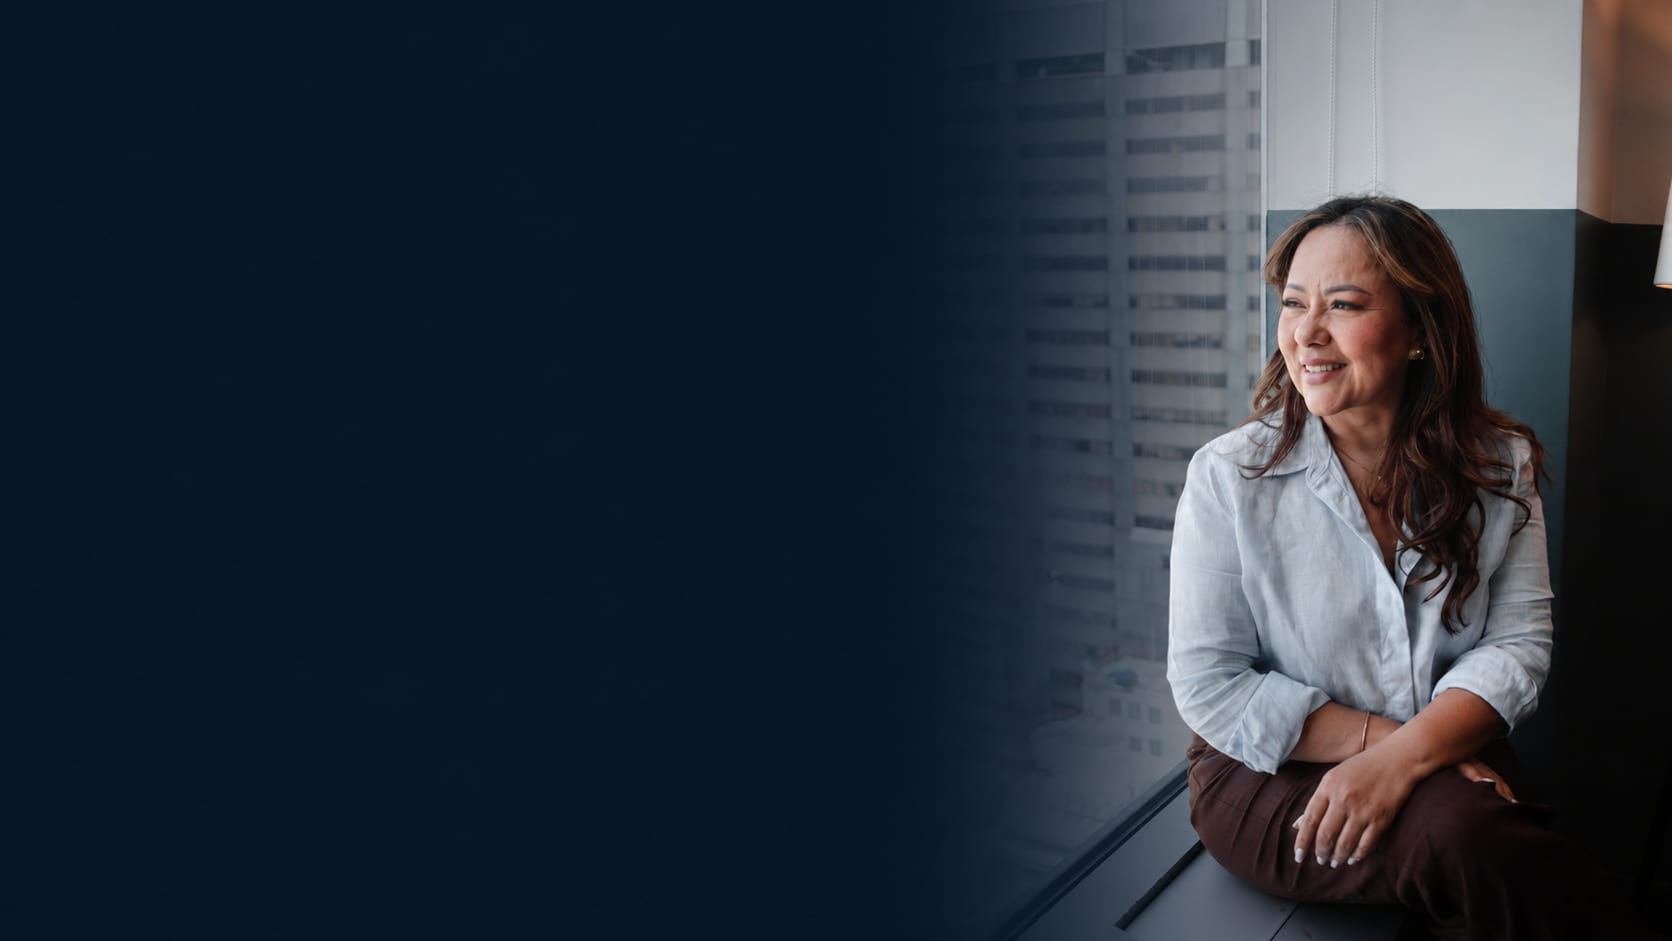
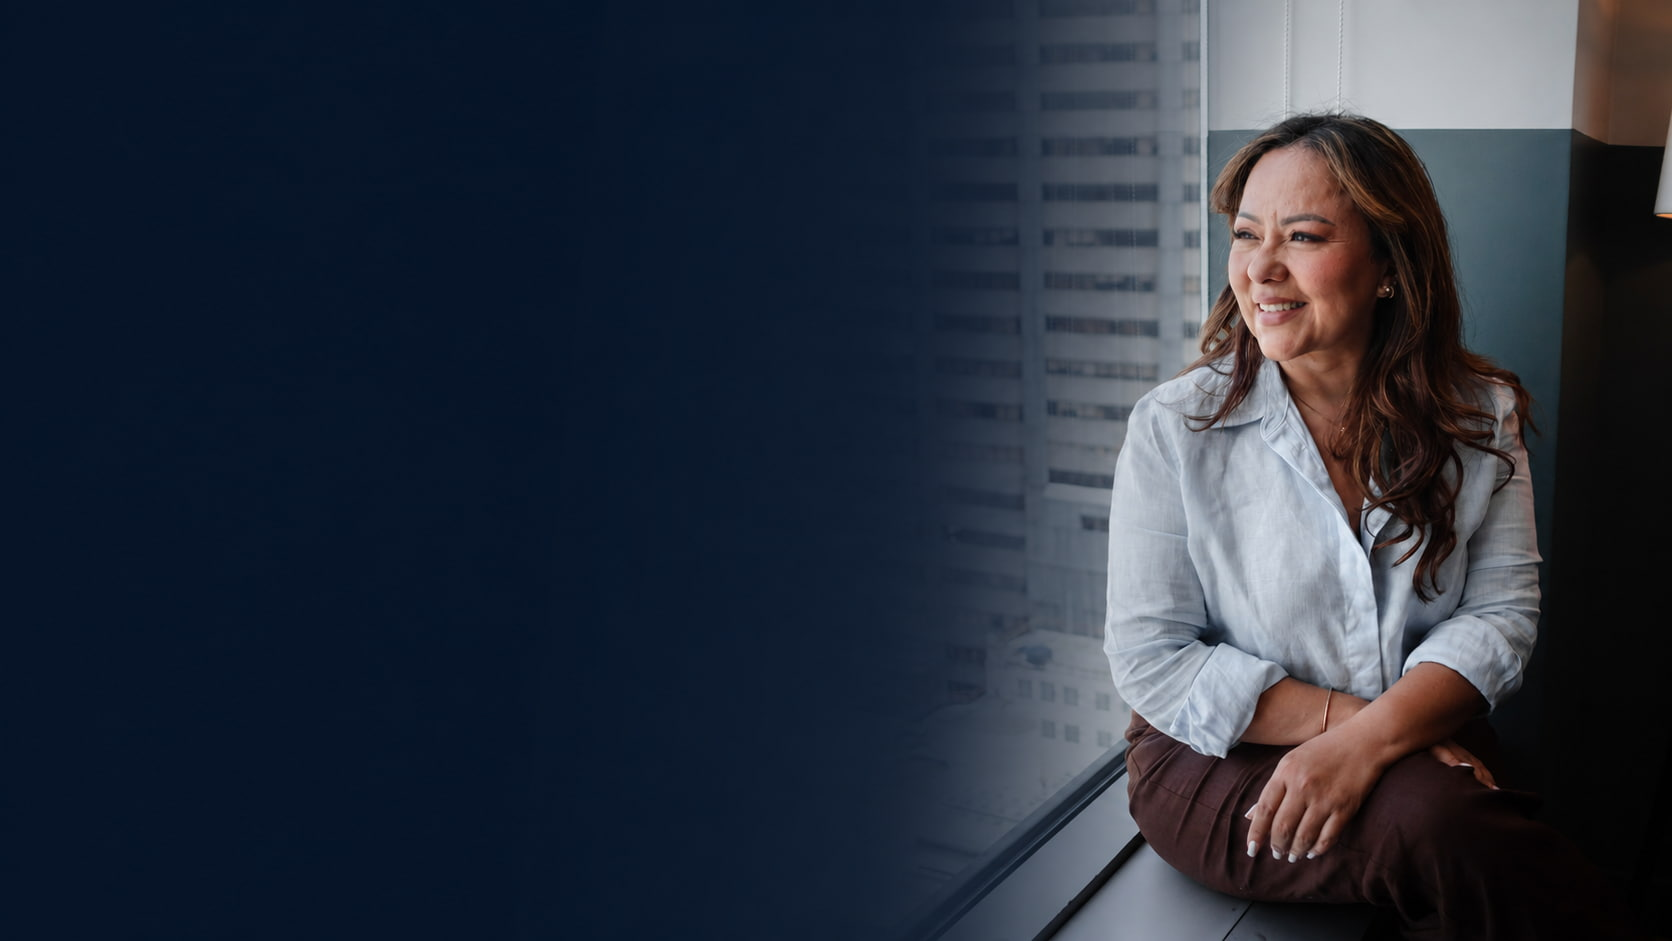
alterações de feedback e foto hero no mobile

Changed region(s): [[0.5598, 0.0, 1.0, 1.0]]

diff --git a/style.css b/style.css
@@ -383,9 +383,9 @@ strong {
 .hero__photo-wrap { width: 100%; height: 100%; overflow: hidden; }
 
 .hero__photo {
-  width: 100%; height: 100%;
+  width: 80%; height: 100%;
   object-fit: cover;
-  object-position: center top;
+  object-position: right top;
 }
 
 .hero__photo-panel::before {
@@ -539,7 +539,9 @@ strong {
   100% { opacity: 0;   transform: scale(1.06); }
 }
 
-/* HERO — MOBILE */
+/* ============================================================
+   HERO — MOBILE (Sombra Sutil e Foto Ajustável)
+============================================================ */
 @media (max-width: 768px) {
   .hero {
     grid-template-columns: 1fr;
@@ -548,36 +550,48 @@ strong {
     flex-direction: column;
     justify-content: flex-end;
     align-items: stretch;
-    background-position: 84% center;
+
+    /* 1. IMAGEM DE FUNDO */
+    background-image: var(--bg-hero-image) !important;
+    background-size: cover !important;
+    
+    /* 2. AJUSTE DA POSIÇÃO DA FOTO: 
+       Mude o 80% para mover a foto para esquerda ou direita */
+    background-position: 90% center !important; 
   }
 
+  /* 3. DEGRADÊ SUTIL (Apenas para dar profundidade) */
   .hero::after {
+    display: block !important; 
     content: '';
     position: absolute;
     inset: 0;
-    background:
-      linear-gradient(
-        to top,
-        var(--color-navy-deep) 0%,
-        rgba(2,10,22,0.92) 36%,
-        rgba(2,10,22,0.55) 62%,
-        rgba(2,10,22,0.18) 100%
-      );
+    background: linear-gradient(
+      to top,
+      rgba(2, 10, 22, 0.8) 0%,    /* Mais escuro na base para o texto ler bem */
+      rgba(2, 10, 22, 0.3) 40%,   /* Transição suave */
+      transparent 70%             /* Topo da foto fica limpo e iluminado */
+    );
     z-index: 1;
+    pointer-events: none;
+  }
+
+  .hero__photo-panel { 
+    display: none !important; 
   }
 
   .calligraphy--nete { font-size: clamp(5rem,22vw,9rem); top: -2%; left: -3%; }
   .calligraphy--barb { font-size: clamp(4.5rem,20vw,8rem); bottom: 40%; left: 0; }
 
-  .hero__photo-panel { display: none; }
-
   .hero__content {
-    position: relative; z-index: 2;
+    position: relative; 
+    z-index: 2;
     padding: 0 1.5rem 3rem;
     gap: 0;
     background: none;
     margin-top: auto;
-    width: 100%; max-width: 100%;
+    width: 100%; 
+    max-width: 100%;
   }
 
   .hero__brand {
@@ -639,13 +653,23 @@ strong {
   }
 
   .hero__scroll { left: 50%; transform: translateX(-50%); }
+} /* Fechamento do media 768px */
+
+@media (max-width: 400px) {
+  .hero__headline { font-size: clamp(1.15rem, 5.5vw, 1.4rem); }
+  .hero__content { padding: 0 1.2 own 2.5rem; }
+  .btn--glass.hero__btn { font-size: 0.65rem; }
 }
 
+/* ============================================================
+   SMALL MOBILE
+============================================================ */
 @media (max-width: 400px) {
   .hero__headline { font-size: clamp(1.15rem, 5.5vw, 1.4rem); }
   .hero__content { padding: 0 1.25rem 2.5rem; }
   .btn--glass.hero__btn { font-size: 0.65rem; }
 }
+
 
 /* ============================================================
    7. DISCOVER SECTION — Card grid, 3 cols desktop / 2 cols mobile

diff --git a/index.html b/index.html
@@ -22,7 +22,7 @@
     <div class="hero__photo-panel">
       <div class="hero__photo-wrap">
         <img
-          src="images/nete-barbosa-hero.jpg"
+          src="images/nete-barbosa-hero.jpggi"
           alt="Nete Barbosa"
           class="hero__photo"
           loading="eager"
@@ -369,15 +369,19 @@ Obrigada por tudo!
         <article class="feedback__card reveal-up" style="--reveal-delay: 0.12s">
           <div class="feedback__quote-mark" aria-hidden="true">"</div>
           <blockquote class="feedback__text">
-          Quando crescer quero ser igual a você! Referência.Já estou me organizando para trazer no contêiner.
+         Tive o privilégio de ter Nete como minha cliente por muitos anos, período em que ela demonstrou dedicação, profissionalismo e comprometimento excepcionais.
+
+Determinada e resiliente, Nete enfrenta desafios com responsabilidade e foco em resultados. Além de sua competência profissional, destaca-se por sua força e caráter, conciliando com admirável coragem seu papel como mãe de duas filhas.
+
+Recomendo fortemente Nete a qualquer pessoa que busque uma profissional confiável, comprometida e guiada pela excelência, integridade e perseverança.
           </blockquote>
           <footer class="feedback__footer">
             <div class="feedback__avatar feedback__avatar--b" aria-hidden="true">
               <span>R</span>
             </div>
             <div class="feedback__author">
-              <p class="feedback__name">Ornella</p>
-              <p class="feedback__role">Aluna da Nete Barbosa</p>
+              <p class="feedback__name">André Lemos</p>
+              <p class="feedback__role">Diretor comercial - Indústria de Óleo e Gás</p>
             </div>
             <div class="feedback__stars" aria-label="5 estrelas">
               <span>★★★★★</span>
